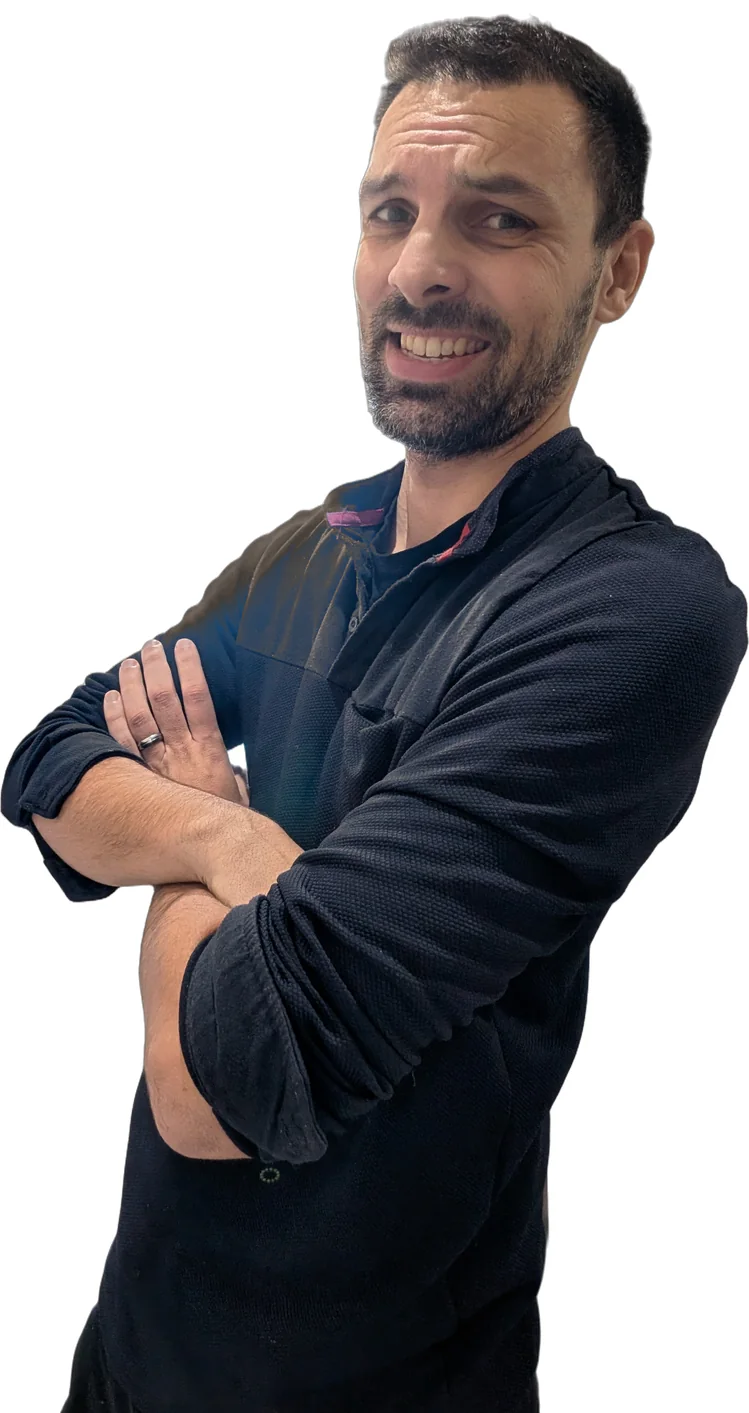
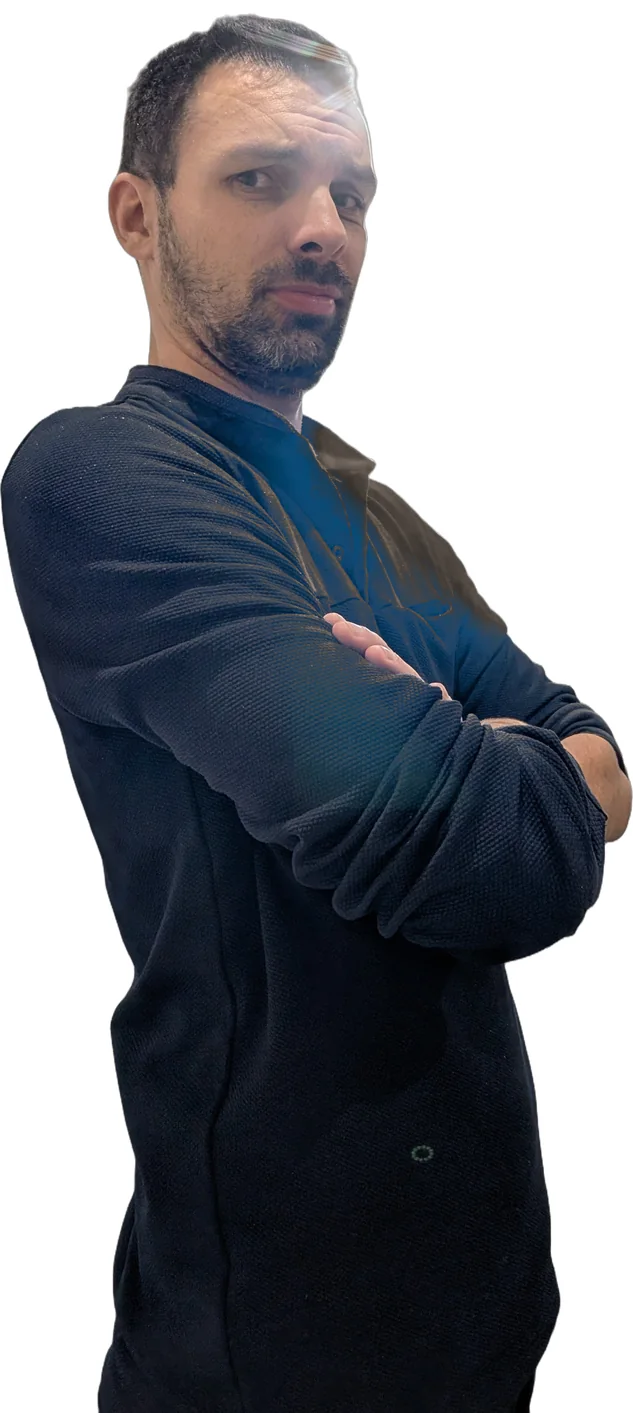
Poses guidées par l'ombre du créateur et une cible, plus de voix pendant le brossage
L'utilisateur fait l'autre moitié du geste (dos à dos, check, high five,
taper dans les mains) : silhouette du créateur à sa vraie place + cible.
Bras croisés : photo de profil pour le dos à dos.

Claude-Session: https://claude.ai/code/session_01R6DUM49Xp7ncrfUeTSexyi

diff --git a/js/app.js b/js/app.js
@@ -65,23 +65,38 @@
        tete = [haut des cheveux, menton, centre horizontal] en fraction de l'image ;
      et comment la placer sur la photo de l'utilisateur (unités = hauteur de la photo) :
        hh = hauteur de sa tête, top = haut de sa tête, dx = distance du bord à son visage.
-     Sa photo est toujours collée en bas (le corps est coupé par le bord, comme sur une vraie photo). */
+     Sa photo est toujours collée en bas (le corps est coupé par le bord, comme sur une vraie photo).
+     Avec une photo du créateur, l'utilisateur fait l'AUTRE MOITIÉ du geste (consigne), guidé par l'ombre
+     du créateur et une cible (cible = point de sa photo où l'utilisateur doit mettre la main, en fraction).
+     geste = consigne sans le créateur (pauses du mode Classique, ou photo absente). */
   const POSES_BEUFA = [
-    { id: "high-five",     mascotte: "main-levee",      cote: "droite", consigne: "Lève la main : high five !",
+    { id: "high-five",     mascotte: "main-levee",      cote: "droite", emoji: "✋",
+      consigne: "Tape dans la main de l'ombre : high five !", geste: "Lève la main : high five !",
+      cible: { x: .06, y: .19, texte: "ta main ici" },
       photo: { tete: [.01, .34, .55], hh: .24, top: .17, dx: .15 } },
-    { id: "check-poing",   mascotte: "main-levee",      cote: "droite", consigne: "Tends ton poing : check !", emoji: "👊",
+    { id: "check-poing",   mascotte: "main-levee",      cote: "droite", emoji: "👊",
+      consigne: "Ton poing contre le sien : check !", geste: "Tends ton poing : check !",
+      cible: { x: .06, y: .39, texte: "ton poing ici" },
       photo: { tete: [.01, .30, .61], hh: .27, top: .15, dx: .2 } },
-    { id: "pouce",         mascotte: "pouce",           cote: "gauche", consigne: "Pouce en l'air !",
+    { id: "pouce",         mascotte: "pouce",           cote: "gauche", emoji: "✌",
+      consigne: "Fais le V de la victoire, comme l'ombre !", geste: "Pouce en l'air !",
       photo: { tete: [.07, .30, .565], hh: .21, top: .2, dx: .28 } },
     { id: "coeur",         mascotte: "coeur",           cote: "droite", consigne: "Fais un cœur avec tes mains" },
-    { id: "pointe",        mascotte: "pointe-du-doigt", cote: "gauche", consigne: "Montre du doigt la place gardée",
+    { id: "pointe",        mascotte: "pointe-du-doigt", cote: "gauche", emoji: "👉",
+      consigne: "Montre l'ombre du doigt : c'est toi !", geste: "Montre-moi du doigt !",
       photo: { tete: [.06, .26, .43], hh: .22, top: .2, dx: .22 } },
     { id: "pensif",        mascotte: "pensif",          cote: "gauche", consigne: "Prends l'air pensif…" },
-    { id: "bras-croises",  mascotte: "bras-croises",    cote: "droite", consigne: "Croise les bras, l'air sûr de toi",
-      photo: { tete: [.01, .32, .67], hh: .27, top: .15, dx: .2 } },
-    { id: "mains-hanches", mascotte: "mains-hanches",   cote: "droite", consigne: "Mains sur les hanches, en champion !",
+    { id: "bras-croises",  mascotte: "bras-croises",    cote: "droite", emoji: "🔙",
+      consigne: "De profil, bras croisés, ton dos contre son dos !", geste: "Croise les bras, l'air sûr de toi",
+      cible: { x: .02, y: .3, texte: "ton dos ici" },
+      photo: { tete: [.01, .28, .38], hh: .27, top: .15, dx: .2 } },
+    { id: "mains-hanches", mascotte: "mains-hanches",   cote: "droite", emoji: "🙌",
+      consigne: "Mains à plat au-dessus des siennes : tape dedans !", geste: "Mains sur les hanches, en champion !",
+      cible: { x: .2, y: .6, texte: "tes mains ici" },
       photo: { tete: [.01, .28, .60], hh: .27, top: .15, dx: .2 } }
   ];
+  // la consigne à donner : l'autre moitié du geste s'il y a la photo du créateur, sinon le geste simple
+  const consigneDe = p => p.createur ? p.consigne : (p.geste || p.consigne);
   // proportions communes au cadre-guide (CSS) et au montage (canvas)
   const PART = { mascotteH: .76, bas: .08, marge: .02 };
   POSES_BEUFA.forEach(p => {
@@ -160,6 +175,7 @@
   if (synthese) { choisirVoix(); synthese.addEventListener && synthese.addEventListener("voiceschanged", choisirVoix); }
   function parler(texte, urgent = true) {
     if (!sonActif || !synthese || !texte) return;
+    if (phase === "prepa" || phase === "brosse" || phase === "pause") return;   // pas de voix pendant le brossage (demande du créateur)
     try {
       if (urgent) synthese.cancel();
       const u = new SpeechSynthesisUtterance(texte.replace(/…/g, "."));
@@ -778,8 +794,8 @@
     img.src = IMG(pose.mascotte);
     elPauseTitre.textContent = "Fais comme moi\u00a0!";
     elPauseSuite.innerHTML = "";
-    elPauseSuite.append(pose.consigne, Object.assign(document.createElement("small"), { textContent: `Ensuite : ${ZONES[indexZone()].toLowerCase()}` }));
-    parler(`Pause ! Fais comme moi : ${pose.consigne}`);
+    elPauseSuite.append(pose.geste || pose.consigne, Object.assign(document.createElement("small"), { textContent: `Ensuite : ${ZONES[indexZone()].toLowerCase()}` }));
+    parler(`Pause ! Fais comme moi : ${pose.geste || pose.consigne}`);
     elPause.querySelector(".pause-boite").insertBefore(img, elPauseCompte);
     elPause.hidden = false;
   }
@@ -815,11 +831,19 @@
   function placeGardee() {
     const p = poseStudio; if (!p) return;
     const st = elPartenaire.style;
-    if (p.createur) {   // autour de sa tête et de ses épaules, sans déborder de l'image
+    const elCible = $("#cible");
+    elCible.hidden = true;
+    if (p.createur) {
+      // son ombre, à sa vraie place (la photo reste une surprise) + la cible où mettre la main
       const v = elStudioVideo, ratio = v.videoWidth ? v.videoWidth / v.videoHeight : 3 / 4;
-      const r = placeCreateur(p, ratio, 1);
-      const g = Math.max(0, r.tx - .19), d = Math.min(ratio, r.tx + .19), haut = Math.max(.02, r.ty - .04);
-      st.cssText = `left:${g / ratio * 100}%;width:${(d - g) / ratio * 100}%;top:${haut * 100}%;bottom:0;right:auto;height:auto;aspect-ratio:auto`;
+      st.cssText = stylePlace(p, ratio);
+      if (p.cible) {
+        const r = placeCreateur(p, ratio, 1);
+        elCible.style.left = Math.max(6, Math.min(94, (r.x + p.cible.x * r.w) / ratio * 100)) + "%";
+        elCible.style.top = Math.max(6, Math.min(94, (r.y + p.cible.y * r.h) * 100)) + "%";
+        elCible.querySelector("small").textContent = p.cible.texte;
+        elCible.hidden = false;
+      }
     } else {
       const m = p.imgMascotte;
       st.cssText = `height:${PART.mascotteH * 100}%;bottom:${PART.bas * 100}%;aspect-ratio:${m.naturalWidth ? `${m.naturalWidth} / ${m.naturalHeight}` : "305 / 738"}`;
@@ -838,22 +862,25 @@
     elStudioVideo.srcObject = flux; elStudioVideo.play().catch(() => {});
     elDemoTitre.textContent = finale ? "Pose finale\u00a0!" : "Fais comme moi\u00a0!";
     elDemoImg.src = IMG(p.mascotte);
-    const elEmoji = $("#demo-emoji"); elEmoji.hidden = !p.emoji; elEmoji.textContent = p.emoji || "";
-    elDemoConsigne.textContent = p.consigne;
-    elStudioHaut.textContent = (p.emoji ? p.emoji + " " : "") + p.consigne;
+    const elEmoji = $("#demo-emoji"), em = p.createur || p.id === "check-poing" ? p.emoji : ""; elEmoji.hidden = !em; elEmoji.textContent = em || "";
+    const cons = consigneDe(p);
+    elDemoTitre.textContent = p.createur ? (finale ? "Pose finale\u00a0!" : "À toi de jouer\u00a0!") : elDemoTitre.textContent;
+    elDemoConsigne.textContent = cons;
+    elStudioHaut.textContent = (p.createur && p.emoji ? p.emoji + " " : "") + cons;
     $("#studio-guide").src = IMG(p.mascotte);
     elStudioCompte.textContent = "";
     // la place du partenaire reste vide : sa photo n'apparaîtra qu'après le brossage (surprise)
-    elPartenaire.className = "zone-surprise";
+    elPartenaire.className = p.createur ? "zone-surprise ombre" : "zone-surprise";
+    elPartenaire.innerHTML = p.createur ? `<img src="${p.createur.src}" alt=""><b>?</b>` : "<span>✨</span>Place gardée<br>pour une surprise";
     poseStudio = p; placeGardee();
-    elBulle.textContent = "Laisse cette place libre !"; elBulle.classList.remove("reaction");
+    elBulle.textContent = p.createur ? "Qui est-ce ? Fais la pose avec lui !" : "Laisse cette place libre !"; elBulle.classList.remove("reaction");
     elApercu.hidden = true;
     elCadre.className = `cadre cote-${p.cote}${p.createur ? " avec-createur" : ""}`;
     etapePose = "demo"; elStudio.className = "studio etape-demo"; elStudio.hidden = false;
     placerCadre();
     rejouer(elDemoImg, "montre"); rejouer(elDemoTitre, "pop"); rejouer(elDemoConsigne, "pop");
     bip(392, .08, .25); bip(523, .08, .35); bip(659, .12, .45);
-    parler(`${finale ? "Pose finale ! " : ""}Pose ta brosse, et fais comme moi : ${p.consigne}`);
+    parler(`${finale ? "Pose finale ! " : ""}Pose ta brosse : ${cons}`);
   }
 
   function passerEnPhoto() {

diff --git a/css/style.css b/css/style.css
@@ -999,3 +999,32 @@ body::before {   /* petites étoiles fixes qui scintillent */
 #ecran-accueil .bascule .option::before, #ecran-accueil .bascule .option::after { display: none; }
 #ecran-accueil .bascule .option.actif { background: var(--or); color: var(--encre); box-shadow: 0 0 10px rgba(255,200,61,.6); }
 #ecran-accueil .bouton-go { position: sticky; bottom: max(8px, env(safe-area-inset-bottom)); z-index: 5; }
+
+/* ---------- studio : ombre du créateur (surprise gardée) + cible du geste ---------- */
+.zone-surprise.ombre { border: 0; background: none; padding: 0; border-radius: 0; box-shadow: none; }
+.zone-surprise.ombre.battement { animation: battement-ombre .5s ease-out; }
+@keyframes battement-ombre { 40% { transform: scale(1.03); } }
+.cible[hidden] { display: none; }
+.zone-surprise.ombre img {
+  position: absolute; inset: 0; width: 100%; height: 100%;
+  filter: brightness(0) drop-shadow(0 0 6px rgba(255, 63, 164, .95)) drop-shadow(0 0 2px #fff); opacity: .62;
+}
+.zone-surprise.ombre b {
+  position: absolute; left: 0; right: 0; top: 4%; text-align: center; font-size: clamp(2rem, 12vw, 3.4rem); color: #fff;
+  -webkit-text-stroke: 3px var(--magenta); paint-order: stroke fill;
+}
+.cible {
+  position: absolute; z-index: 3; width: 0; height: 0; pointer-events: none;
+  display: flex; flex-direction: column; align-items: center; justify-content: center;
+}
+.cible::before {
+  content: ""; position: absolute; width: clamp(54px, 16vw, 84px); aspect-ratio: 1; border-radius: 50%;
+  border: 4px solid var(--or); box-shadow: 0 0 0 3px rgba(255,200,61,.35), 0 0 18px rgba(255,200,61,.9);
+  animation: cible-pulse .8s ease-in-out infinite alternate;
+}
+.cible small {
+  position: absolute; top: clamp(32px, 9vw, 48px); white-space: nowrap; padding: 2px 8px; border-radius: 999px;
+  background: var(--or); color: var(--encre); font-weight: 800; font-size: .8rem;
+}
+@keyframes cible-pulse { from { transform: scale(.9); } to { transform: scale(1.1); } }
+@media (prefers-reduced-motion: reduce) { .cible::before { animation: none; } }

diff --git a/index.html b/index.html
@@ -167,6 +167,7 @@
       <div id="cadre" class="cadre" aria-hidden="true">
         <div class="cadre-tete"><span>Ta tête ici</span></div>
         <div id="partenaire" class="zone-surprise"><span>✨</span>Place gardée<br>pour une surprise</div>
+        <div id="cible" class="cible" hidden><span></span><small></small></div>
         <div id="bulle" class="bulle"></div>
         <img id="apercu" class="apercu" alt="" hidden>
       </div>

diff --git a/assets/createur/LISEZMOI.md b/assets/createur/LISEZMOI.md
@@ -2,14 +2,17 @@
 
 Photos **détourées** (WebP à fond transparent, contour blanc déjà inclus), une par pose :
 
-| Fichier | Geste de l'utilisateur (montré par Beufa) | Réponse du créateur | Côté du créateur |
-|---|---|---|---|
-| `high-five.webp` | lève la main | tend la main : high five | droite |
-| `check-poing.webp` | tend son poing (👊) | tend son poing : check | droite |
-| `pouce.webp` | pouce en l'air | V de la victoire, main sur la hanche | gauche |
-| `pointe.webp` | montre du doigt la place gardée | le montre du doigt en retour | gauche |
-| `bras-croises.webp` | croise les bras | croise les bras aussi (duo de choc) | droite |
-| `mains-hanches.webp` | mains sur les hanches, en champion | le présente des deux mains (« ta-da ! ») | droite |
+| Fichier | Ta photo | L'autre moitié du geste (consigne à l'utilisateur) | Côté | Cible |
+|---|---|---|---|---|
+| `high-five.webp` | main levée vers lui | « Tape dans la main de l'ombre : high five ! » | droite | ta main ici |
+| `check-poing.webp` | poing tendu | « Ton poing contre le sien : check ! » | droite | ton poing ici |
+| `pouce.webp` | V + main sur la hanche | « Fais le V de la victoire, comme l'ombre ! » | gauche | — |
+| `pointe.webp` | tu montres la caméra | « Montre l'ombre du doigt : c'est toi ! » | gauche | — |
+| `bras-croises.webp` | de profil, bras croisés (photo 2) | « De profil, bras croisés, ton dos contre son dos ! » | droite | ton dos ici |
+| `mains-hanches.webp` | paumes vers le haut, en bas | « Mains à plat au-dessus des siennes : tape dedans ! » | droite | tes mains ici |
+
+Pendant la photo, l'utilisateur voit **ton ombre** à ta vraie place (avec un « ? », la photo reste une surprise)
+et une **cible dorée** là où doit aller sa main (`cible` dans `POSES_BEUFA`, en fraction de ta photo).
 
 Pas de photo pour « cœur » et « pensif » : Beufa prend la place du créateur (rien ne casse).
 Les poses avec une photo du créateur passent en premier.

diff --git a/IDEES.md b/IDEES.md
@@ -208,3 +208,8 @@ Pas de publication sur le Play Store.
   l'horizontale), raccord de la boucle de la musique de fond.
 - [ ] Plus tard : détourage de l'utilisateur (MediaPipe) pour les poses « créateur derrière » (oreilles de lapin, main sur la tête, cornes).
 - Poses à ajouter plus tard : check de poing (à refaire quand Gemini sera de nouveau disponible).
+- [x] Retours du test (session 11) : **plus de voix pendant le brossage** (installation, brossage, pauses et photos ; sons gardés,
+  la voix reste pour la fin). **Poses guidées** : l'utilisateur fait l'autre moitié du geste du créateur, guidé par **l'ombre du
+  créateur** (sa silhouette à sa vraie place, avec « ? ») et une **cible dorée** (« ta main ici », « ton poing ici », « ton dos ici »,
+  « tes mains ici »). Dos à dos avec la photo 2 (vraiment de profil). Consignes simples gardées pour les pauses du mode Classique.
+
